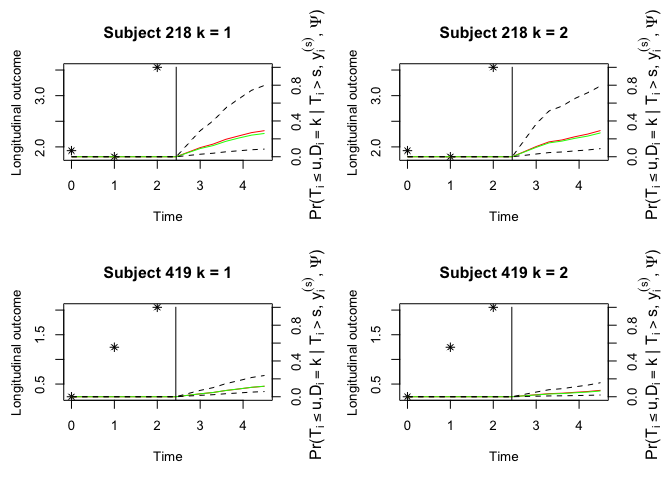
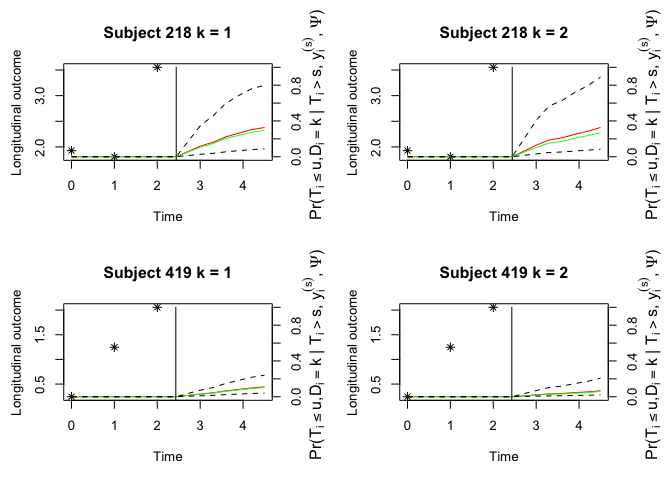
update codes

diff --git a/README.md b/README.md
@@ -1,8 +1,3 @@
----
-output:
-  pdf_document: default
-  html_document: default
----
 
 # FastJM
 
@@ -113,56 +108,56 @@ survfit <- survfitjmcs(fit,
                        ynewdata = ND, 
                        cnewdata = NDc, 
                        u = seq(3, 4.5, by = 0.3), 
-                       M = 50,
+                       M = 100,
                        seed = 100)
-#>   |                                                                              |                                                                      |   0%  |                                                                              |=                                                                     |   2%  |                                                                              |===                                                                   |   4%  |                                                                              |====                                                                  |   6%  |                                                                              |======                                                                |   8%  |                                                                              |=======                                                               |  10%  |                                                                              |=========                                                             |  12%  |                                                                              |==========                                                            |  14%  |                                                                              |===========                                                           |  16%  |                                                                              |=============                                                         |  18%  |                                                                              |==============                                                        |  20%  |                                                                              |================                                                      |  22%  |                                                                              |=================                                                     |  24%  |                                                                              |===================                                                   |  27%  |                                                                              |====================                                                  |  29%  |                                                                              |=====================                                                 |  31%  |                                                                              |=======================                                               |  33%  |                                                                              |========================                                              |  35%  |                                                                              |==========================                                            |  37%  |                                                                              |===========================                                           |  39%  |                                                                              |=============================                                         |  41%  |                                                                              |==============================                                        |  43%  |                                                                              |===============================                                       |  45%  |                                                                              |=================================                                     |  47%  |                                                                              |==================================                                    |  49%  |                                                                              |====================================                                  |  51%  |                                                                              |=====================================                                 |  53%  |                                                                              |=======================================                               |  55%  |                                                                              |========================================                              |  57%  |                                                                              |=========================================                             |  59%  |                                                                              |===========================================                           |  61%  |                                                                              |============================================                          |  63%  |                                                                              |==============================================                        |  65%  |                                                                              |===============================================                       |  67%  |                                                                              |=================================================                     |  69%  |                                                                              |==================================================                    |  71%  |                                                                              |===================================================                   |  73%  |                                                                              |=====================================================                 |  76%  |                                                                              |======================================================                |  78%  |                                                                              |========================================================              |  80%  |                                                                              |=========================================================             |  82%  |                                                                              |===========================================================           |  84%  |                                                                              |============================================================          |  86%  |                                                                              |=============================================================         |  88%  |                                                                              |===============================================================       |  90%  |                                                                              |================================================================      |  92%  |                                                                              |==================================================================    |  94%  |                                                                              |===================================================================   |  96%  |                                                                              |===================================================================== |  98%  |                                                                              |======================================================================| 100%
+#>   |                                                                              |                                                                      |   0%  |                                                                              |=                                                                     |   1%  |                                                                              |=                                                                     |   2%  |                                                                              |==                                                                    |   3%  |                                                                              |===                                                                   |   4%  |                                                                              |====                                                                  |   5%  |                                                                              |====                                                                  |   6%  |                                                                              |=====                                                                 |   7%  |                                                                              |======                                                                |   8%  |                                                                              |======                                                                |   9%  |                                                                              |=======                                                               |  10%  |                                                                              |========                                                              |  11%  |                                                                              |========                                                              |  12%  |                                                                              |=========                                                             |  13%  |                                                                              |==========                                                            |  14%  |                                                                              |===========                                                           |  15%  |                                                                              |===========                                                           |  16%  |                                                                              |============                                                          |  17%  |                                                                              |=============                                                         |  18%  |                                                                              |=============                                                         |  19%  |                                                                              |==============                                                        |  20%  |                                                                              |===============                                                       |  21%  |                                                                              |================                                                      |  22%  |                                                                              |================                                                      |  23%  |                                                                              |=================                                                     |  24%  |                                                                              |==================                                                    |  25%  |                                                                              |==================                                                    |  26%  |                                                                              |===================                                                   |  27%  |                                                                              |====================                                                  |  28%  |                                                                              |=====================                                                 |  29%  |                                                                              |=====================                                                 |  30%  |                                                                              |======================                                                |  31%  |                                                                              |=======================                                               |  32%  |                                                                              |=======================                                               |  33%  |                                                                              |========================                                              |  34%  |                                                                              |=========================                                             |  35%  |                                                                              |=========================                                             |  36%  |                                                                              |==========================                                            |  37%  |                                                                              |===========================                                           |  38%  |                                                                              |============================                                          |  39%  |                                                                              |============================                                          |  40%  |                                                                              |=============================                                         |  41%  |                                                                              |==============================                                        |  42%  |                                                                              |==============================                                        |  43%  |                                                                              |===============================                                       |  44%  |                                                                              |================================                                      |  45%  |                                                                              |=================================                                     |  46%  |                                                                              |=================================                                     |  47%  |                                                                              |==================================                                    |  48%  |                                                                              |===================================                                   |  49%  |                                                                              |===================================                                   |  51%  |                                                                              |====================================                                  |  52%  |                                                                              |=====================================                                 |  53%  |                                                                              |=====================================                                 |  54%  |                                                                              |======================================                                |  55%  |                                                                              |=======================================                               |  56%  |                                                                              |========================================                              |  57%  |                                                                              |========================================                              |  58%  |                                                                              |=========================================                             |  59%  |                                                                              |==========================================                            |  60%  |                                                                              |==========================================                            |  61%  |                                                                              |===========================================                           |  62%  |                                                                              |============================================                          |  63%  |                                                                              |=============================================                         |  64%  |                                                                              |=============================================                         |  65%  |                                                                              |==============================================                        |  66%  |                                                                              |===============================================                       |  67%  |                                                                              |===============================================                       |  68%  |                                                                              |================================================                      |  69%  |                                                                              |=================================================                     |  70%  |                                                                              |=================================================                     |  71%  |                                                                              |==================================================                    |  72%  |                                                                              |===================================================                   |  73%  |                                                                              |====================================================                  |  74%  |                                                                              |====================================================                  |  75%  |                                                                              |=====================================================                 |  76%  |                                                                              |======================================================                |  77%  |                                                                              |======================================================                |  78%  |                                                                              |=======================================================               |  79%  |                                                                              |========================================================              |  80%  |                                                                              |=========================================================             |  81%  |                                                                              |=========================================================             |  82%  |                                                                              |==========================================================            |  83%  |                                                                              |===========================================================           |  84%  |                                                                              |===========================================================           |  85%  |                                                                              |============================================================          |  86%  |                                                                              |=============================================================         |  87%  |                                                                              |==============================================================        |  88%  |                                                                              |==============================================================        |  89%  |                                                                              |===============================================================       |  90%  |                                                                              |================================================================      |  91%  |                                                                              |================================================================      |  92%  |                                                                              |=================================================================     |  93%  |                                                                              |==================================================================    |  94%  |                                                                              |==================================================================    |  95%  |                                                                              |===================================================================   |  96%  |                                                                              |====================================================================  |  97%  |                                                                              |===================================================================== |  98%  |                                                                              |===================================================================== |  99%  |                                                                              |======================================================================| 100%
 survfit
 #> 
 #> Prediction of Conditional Probabilities of Event
-#>  based on 50 Monte Carlo samples
+#>  based on 100 Monte Carlo samples
 #> 
 #> $`218`
 #> $`218`$`Cumulative incidence probabilities for type 1 failure`
-#>      times      Mean     Median 95%HDLower 95%HDUpper
-#> 1 2.441634 0.0000000 0.00000000 0.00000000  0.0000000
-#> 2 3.000000 0.1019023 0.09173377 0.02800572  0.2912309
-#> 3 3.300000 0.1411337 0.12478303 0.03925318  0.4000652
-#> 4 3.600000 0.1951804 0.17273625 0.05517985  0.5465473
-#> 5 3.900000 0.2331410 0.20945648 0.06683557  0.6477954
-#> 6 4.200000 0.2699894 0.24178899 0.07841441  0.7432997
-#> 7 4.500000 0.2918208 0.26053237 0.08534956  0.7977818
+#>      times      Mean    Median 95%HDLower 95%HDUpper
+#> 1 2.441634 0.0000000 0.0000000 0.00000000  0.0000000
+#> 2 3.000000 0.1183971 0.1057755 0.02712004  0.3447644
+#> 3 3.300000 0.1627476 0.1473818 0.03850137  0.4583273
+#> 4 3.600000 0.2226974 0.2052644 0.05519866  0.5978762
+#> 5 3.900000 0.2640791 0.2394429 0.06756931  0.6856961
+#> 6 4.200000 0.3035967 0.2742986 0.08019897  0.7597559
+#> 7 4.500000 0.3266539 0.2950674 0.08804206  0.7993263
 #> 
 #> $`218`$`Cumulative incidence probabilities for type 2 failure`
 #>      times      Mean    Median 95%HDLower 95%HDUpper
 #> 1 2.441634 0.0000000 0.0000000 0.00000000  0.0000000
-#> 2 3.000000 0.1140959 0.1047456 0.03061918  0.3670499
-#> 3 3.300000 0.1665314 0.1549190 0.04647752  0.5120441
-#> 4 3.600000 0.1875582 0.1749764 0.05323437  0.5656966
-#> 5 3.900000 0.2234971 0.2056436 0.06531201  0.6510426
-#> 6 4.200000 0.2534424 0.2310376 0.07590219  0.7156340
-#> 7 4.500000 0.2929031 0.2666981 0.09082805  0.7912904
+#> 2 3.000000 0.1285288 0.1035182 0.03172158  0.4052987
+#> 3 3.300000 0.1874527 0.1525900 0.04713830  0.5674342
+#> 4 3.600000 0.2110135 0.1725226 0.05344369  0.6280869
+#> 5 3.900000 0.2510059 0.2069096 0.06423082  0.7190498
+#> 6 4.200000 0.2842390 0.2358267 0.07348492  0.7947475
+#> 7 4.500000 0.3279450 0.2683473 0.08612979  0.8904483
 #> 
 #> 
 #> $`419`
 #> $`419`$`Cumulative incidence probabilities for type 1 failure`
 #>      times       Mean     Median 95%HDLower 95%HDUpper
 #> 1 2.432155 0.00000000 0.00000000 0.00000000 0.00000000
-#> 2 3.000000 0.03286548 0.03286250 0.01565922 0.07106902
-#> 3 3.300000 0.04747870 0.04762011 0.02278781 0.10154752
-#> 4 3.600000 0.06975108 0.07027051 0.03384960 0.14672429
-#> 5 3.900000 0.08671654 0.08750940 0.04242203 0.18023420
-#> 6 4.200000 0.10497785 0.10599381 0.05181927 0.21525971
-#> 7 4.500000 0.11708209 0.11824975 0.05816036 0.23778849
+#> 2 3.000000 0.03079096 0.02821216 0.01089736 0.07247119
+#> 3 3.300000 0.04452581 0.04092871 0.01590006 0.10341700
+#> 4 3.600000 0.06551001 0.06050798 0.02371131 0.14912730
+#> 5 3.900000 0.08152747 0.07556083 0.02979499 0.18293185
+#> 6 4.200000 0.09881374 0.09193021 0.03650782 0.21818322
+#> 7 4.500000 0.11030487 0.10289277 0.04107095 0.24081483
 #> 
 #> $`419`$`Cumulative incidence probabilities for type 2 failure`
 #>      times       Mean     Median  95%HDLower 95%HDUpper
 #> 1 2.432155 0.00000000 0.00000000 0.000000000 0.00000000
-#> 2 3.000000 0.02269061 0.02021804 0.005899132 0.05233959
-#> 3 3.300000 0.03448109 0.03077516 0.009046389 0.07867464
-#> 4 3.600000 0.03965429 0.03541735 0.010447487 0.09002123
-#> 5 3.900000 0.04945079 0.04421991 0.013145948 0.11104256
-#> 6 4.200000 0.05844794 0.05232337 0.015665138 0.12994575
-#> 7 4.500000 0.07159601 0.06444799 0.019413217 0.15694409
+#> 2 3.000000 0.02107558 0.01786982 0.006240487 0.06925139
+#> 3 3.300000 0.03204827 0.02729963 0.009597113 0.10408253
+#> 4 3.600000 0.03686910 0.03147270 0.011099348 0.11911033
+#> 5 3.900000 0.04601871 0.03945804 0.014017337 0.14712821
+#> 6 4.200000 0.05443414 0.04686091 0.016756769 0.17234416
+#> 7 4.500000 0.06674827 0.05778664 0.020852337 0.20829150
 ```
 
 Plot the cumulative incidence function for each failure with the
